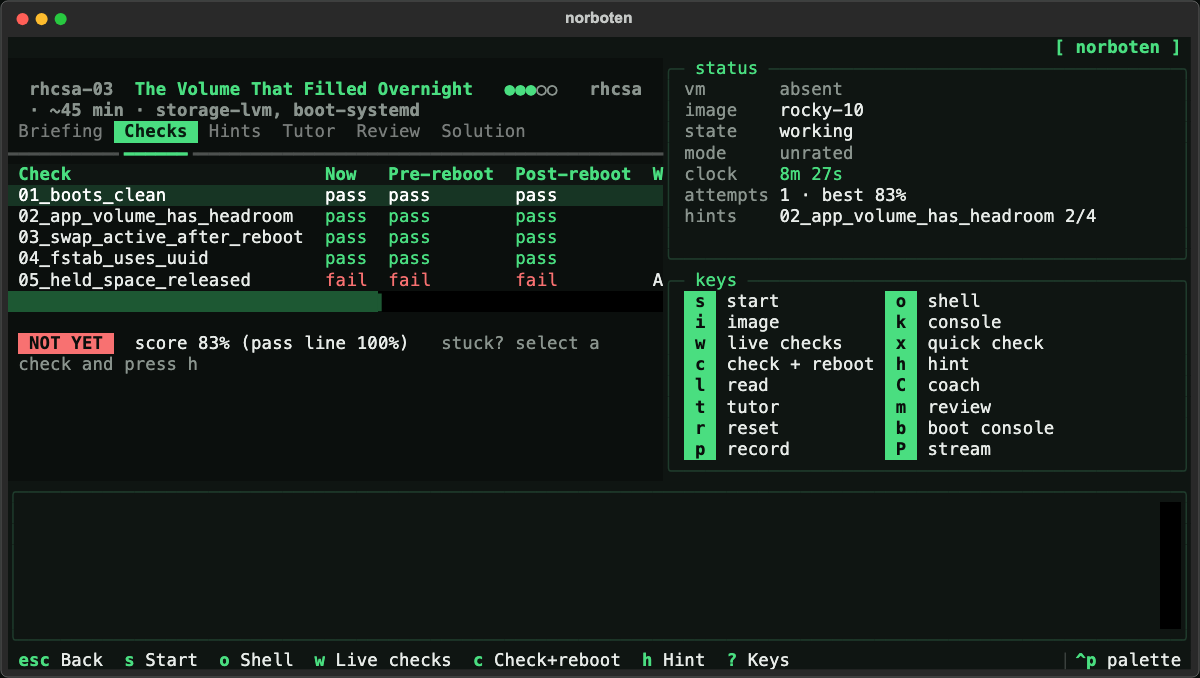
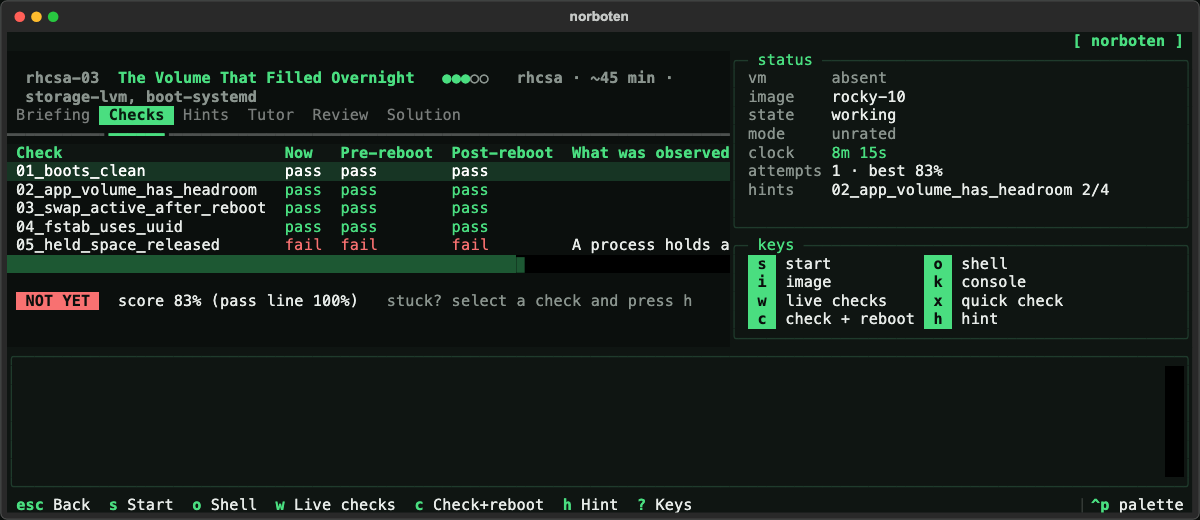
fix(site): the checks capture shows its columns whole

Changed region(s): [[0.0, 0.0, 1.0, 0.9846]]

diff --git a/site/capture.py b/site/capture.py
@@ -33,8 +33,11 @@ from pathlib import Path
 ROOT = Path(__file__).resolve().parents[1]
 SITE = ROOT / "site"
 SIZE = (150, 44)
-#: The home page's hero is shown small, so its capture is a smaller terminal: larger letters.
-SIZES = {"tui-check": (112, 30)}
+#: A capture whose terminal is a different shape from the rest. Everything else is SIZE, which is
+#: what the checks table needs to show its columns whole.
+#: tui-check is shown small on Features, so it is captured narrow (bigger letters) but wide
+#: enough for the checks table's four columns, and short enough not to leave dead space.
+SIZES: dict[str, tuple[int, int]] = {"tui-check": (128, 26)}
 
 #: The sample account the You capture signs in as. It is generated by seed/generate.py.
 SAMPLE_USER = "seed-007"
